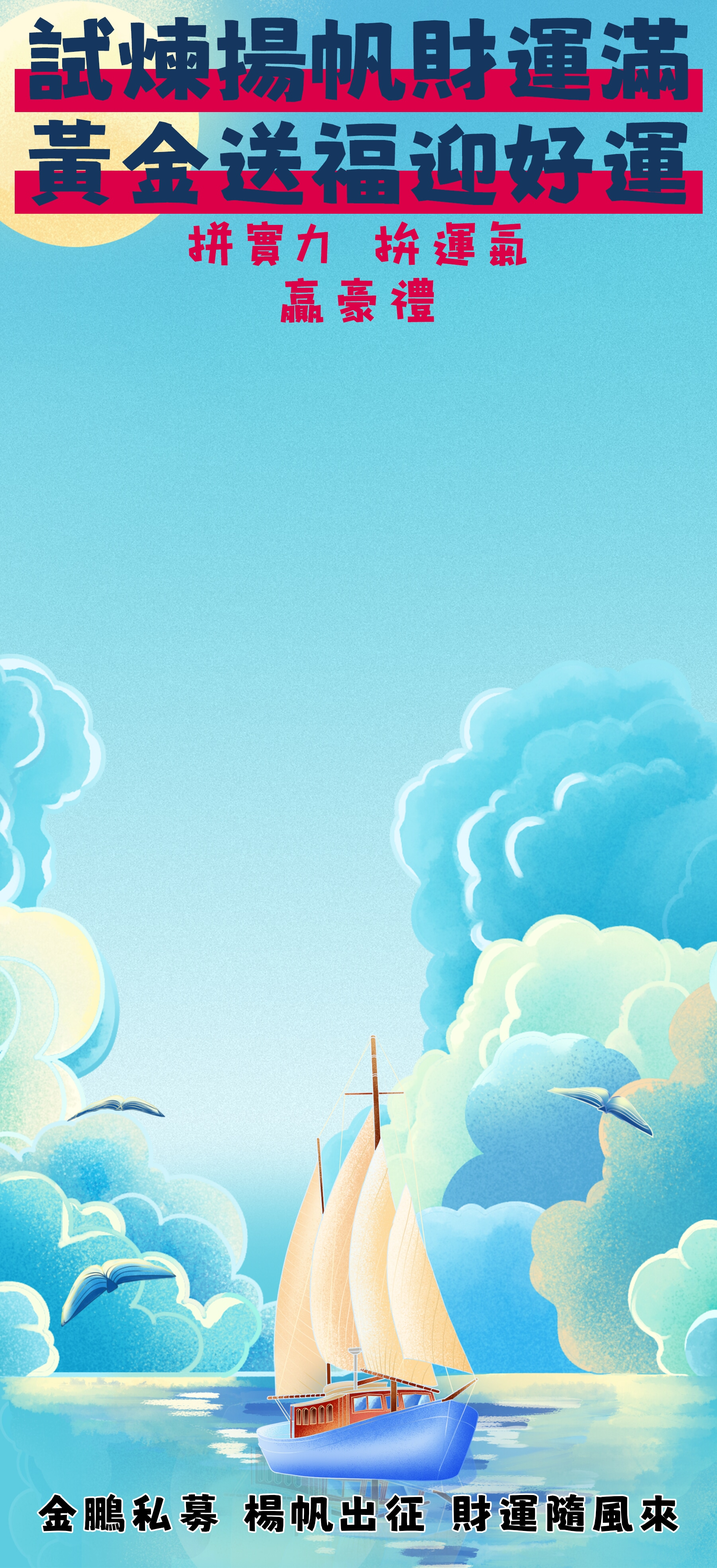
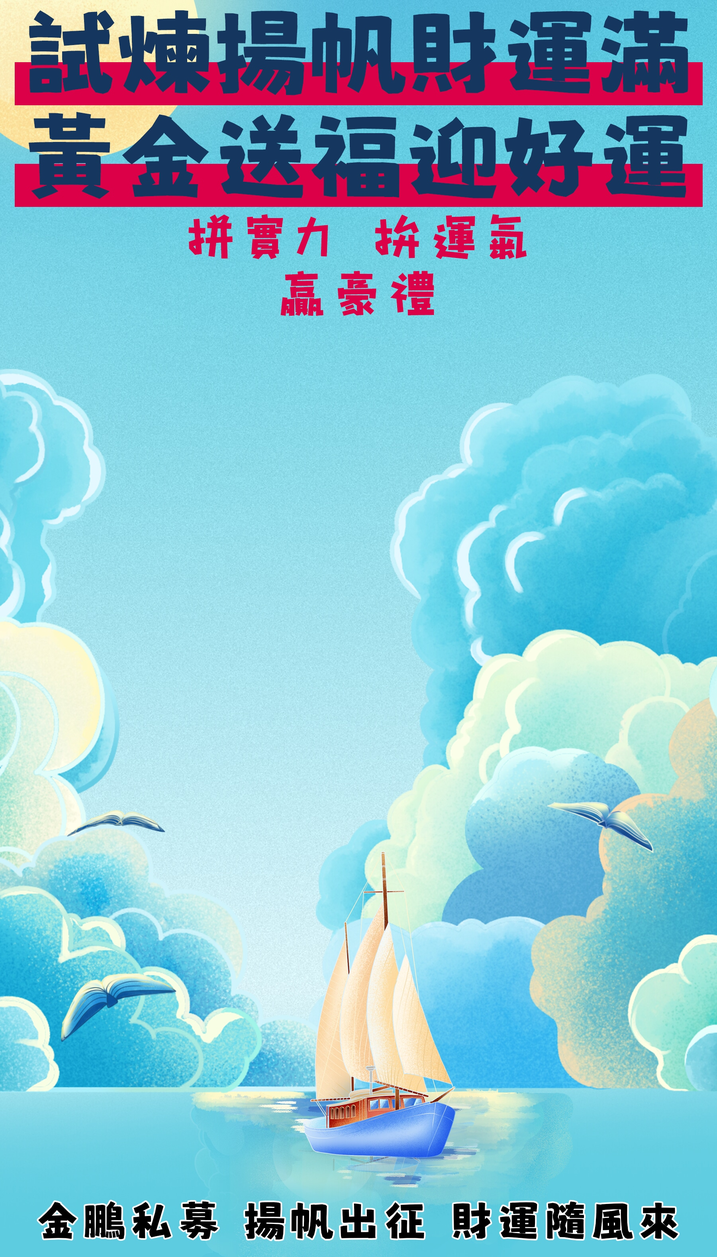
fix:背景图

diff --git a/src/components/LotteryMobile.vue b/src/components/LotteryMobile.vue
@@ -157,13 +157,13 @@ export default {
 .lottery-container {
     position: relative;
     width: 100vw;
-    min-height: 120vh;
+    min-height: 100vh;
     padding: 10vh 0 0vh 0;
     box-sizing: border-box;
     overflow: visible;
     background-image: url('../assets/mobileImg/BG.png');
-    background-size: 100% auto;
-    background-position: center top;
+    background-size: 100% 100%;
+    background-position: center;
     background-repeat: no-repeat;
     display: flex;
     align-items: center;
@@ -174,9 +174,9 @@ export default {
     position: relative;
     margin: 0 auto;
     z-index: 10;
-    width: 85vw;
+    width: 100vw;
     max-width: 450px;
-    padding-bottom: 14vh;
+    padding-bottom: 5vh;
 }
 
 .lottery-frame-bg {
@@ -188,7 +188,7 @@ export default {
 
 .prizes-grid {
     position: absolute;
-    top: 16%;
+    top: 18.2%;
     left: 50%;
     transform: translateX(-50%);
     display: grid;
@@ -254,14 +254,14 @@ export default {
     font-size: 2.5vw;
     color: #1e293b;
     font-weight: bold;
-    margin-bottom: 0.15vh;
+    margin-bottom: 0.2vh;
 }
 
 .prize-value {
     font-size: 2.6vw;
     font-weight: bold;
     white-space: pre-line;
-    line-height: 1;
+    line-height: 1.5;
 }
 
 /* 銘謝惠顧特殊样式 */
@@ -293,7 +293,7 @@ export default {
 
 .lottery-btn {
     position: absolute;
-    bottom: 20vh;
+    bottom: 11.5vh;
     left: 50%;
     transform: translateX(-50%);
     cursor: pointer;
